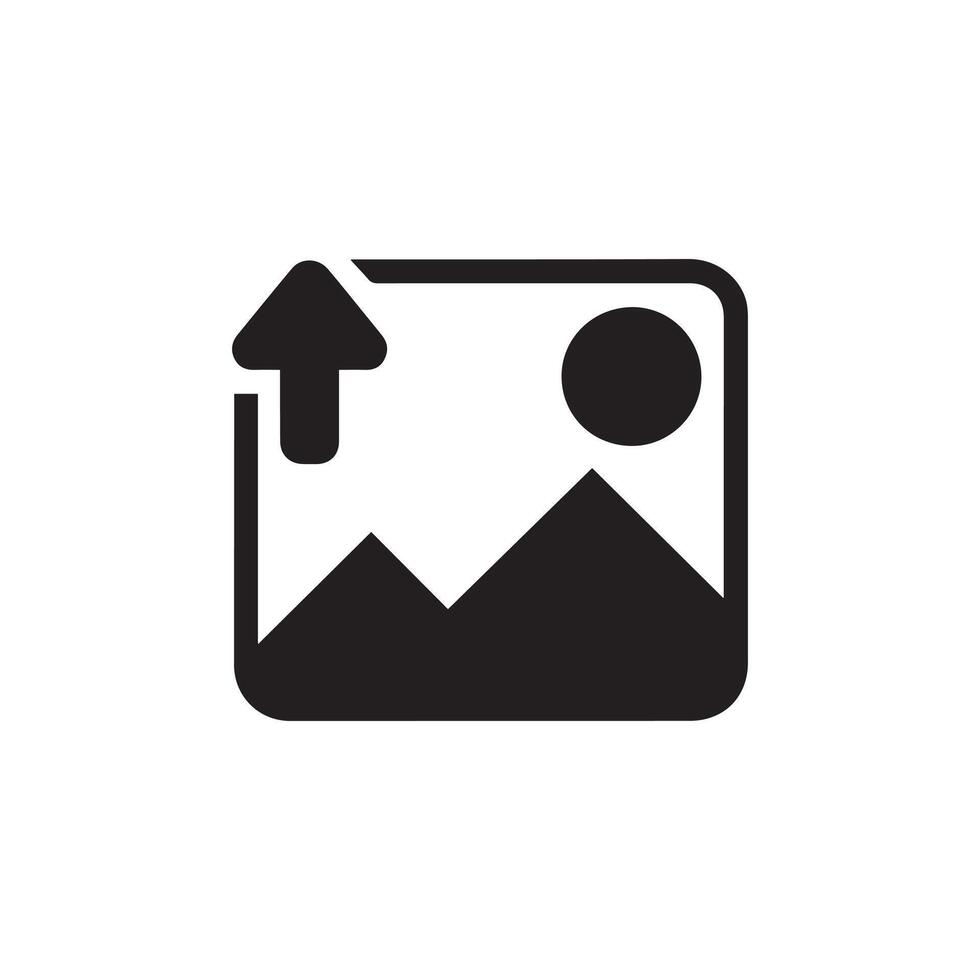
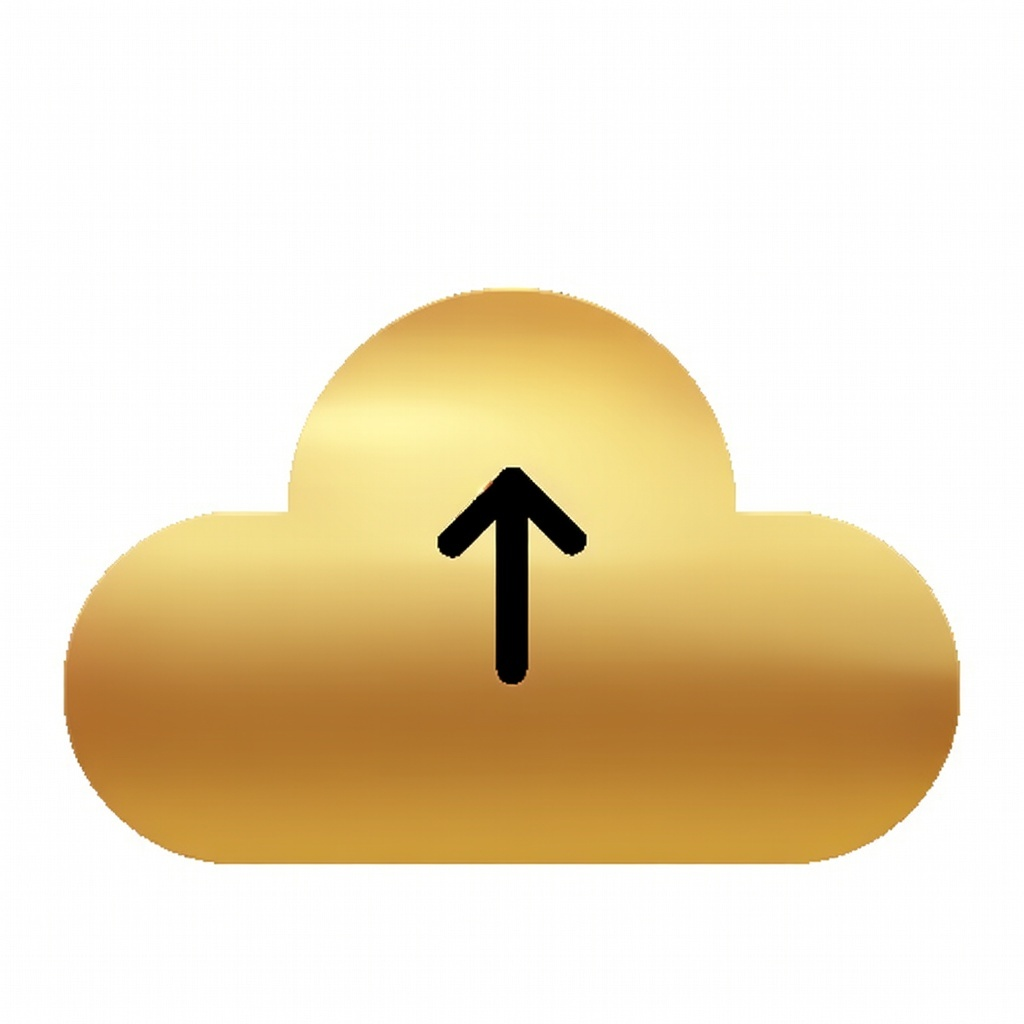
fix image-dropzone to match the design

diff --git a/admin/src/pages/ServicesList.jsx b/admin/src/pages/ServicesList.jsx
@@ -1,12 +1,12 @@
-import React, { useContext, useState } from 'react'
-import { AdminContext } from "../context/AdminContext.jsx";
-import { assets } from "../assets/assets.js"
+import React, {useContext, useState} from 'react'
+import {AdminContext} from "../context/AdminContext.jsx";
+import {assets} from "../assets/assets.js"
 import axios from "axios";
-import { toast } from "react-toastify";
+import {toast} from "react-toastify";
 
 const ServicesList = () => {
 
-  const { adminToken, backendUrl } = useContext(AdminContext)
+  const {adminToken, backendUrl} = useContext(AdminContext)
 
   const [serviceImg, setServiceImg] = useState(false)
   const [type, setType] = useState('')
@@ -33,7 +33,7 @@ const ServicesList = () => {
       formData.append('description', description)
       formData.append('filter', filter)
 
-      const { data } = await axios.post(backendUrl + '/api/service/add-service', formData, { headers: { adminToken } })
+      const {data} = await axios.post(backendUrl + '/api/service/add-service', formData, {headers: {adminToken}})
 
       if (data.success) {
         toast.success(data.message)
@@ -53,54 +53,60 @@ const ServicesList = () => {
   }
 
   return (
-    <form onSubmit={onSubmitHandler} className="m-5 w-full">
+      <form onSubmit={onSubmitHandler} className="m-5 w-full">
 
-      <p className="mb-3 text-lg font-medium">Add service</p>
+        <p className="mb-3 text-lg font-medium">Add service</p>
 
-      <div className="bg-white px-8 py-8 border rounded w-full max-w-4xl max-h-[80vh] overflow-y-scroll scrollbar-hide">
-        <div className="flex items-center gap-4 mb-8 text-gray-500">
-          <label htmlFor="service-image">
-            <img className="w-16 bg-transparent rounded-full cursor-pointer" src={serviceImg ? URL.createObjectURL(serviceImg) : "/images/image-dropzone.png"} alt="upload-area" />
-          </label>
-          <input onChange={(e) => setServiceImg(e.target.files[0])} type="file" id="service-image" hidden />
-          <p>Upload service image</p>
+        <div
+            className="bg-white px-8 py-8 border rounded w-full max-w-4xl max-h-[80vh] overflow-y-scroll scrollbar-hide">
+          <div className="flex items-center gap-4 mb-8 text-gray-500">
+            <label htmlFor="service-image">
+              <img className="w-16 bg-transparent rounded-full cursor-pointer"
+                   src={serviceImg ? URL.createObjectURL(serviceImg) : "/images/image-dropzone.jpg"} alt="upload-area"/>
+            </label>
+            <input onChange={(e) => setServiceImg(e.target.files[0])} type="file" id="service-image" hidden/>
+            <p>Upload service image</p>
+          </div>
+
+          <div className="flex flex-col gap-4 text-gray-600">
+            <div className="flex flex-col gap-1">
+              <p>Service Name</p>
+              <input onChange={(e) => setType(e.target.value)} value={type} className="border rounded px-3 py-2"
+                     type="text" placeholder="Service Name" required/>
+            </div>
+
+            <div className="flex flex-col gap-1">
+              <p>Service Price</p>
+              <input onChange={(e) => setFee(e.target.value)} value={fee} className="border rounded px-3 py-2"
+                     type="number" placeholder="20" required/>
+            </div>
+
+            <div className="flex flex-col gap-1">
+              <p>Short Description</p>
+              <input onChange={(e) => setShortDescription(e.target.value)} value={shortDescription}
+                     className="border rounded px-3 py-2" type="text" placeholder="Short summary" required/>
+            </div>
+
+            <div className="flex flex-col gap-1">
+              <p>Description</p>
+              <textarea onChange={(e) => setDescription(e.target.value)} value={description}
+                        className="border rounded px-3 py-2" placeholder="Full service description" rows={4} required/>
+            </div>
+
+            <div className="flex flex-col gap-1">
+              <p>Filter Category</p>
+              <select onChange={(e) => setFilter(e.target.value)} value={filter} className="border rounded px-3 py-2">
+                <option value="дамско">Дамско</option>
+                <option value="мъжко">Мъжко</option>
+                <option value="детско">Детско</option>
+              </select>
+            </div>
+
+            <button type="submit" className="bg-primary px-10 py-3 mt-4 text-white rounded-full">Add Service</button>
+          </div>
+
         </div>
-
-        <div className="flex flex-col gap-4 text-gray-600">
-          <div className="flex flex-col gap-1">
-            <p>Service Name</p>
-            <input onChange={(e) => setType(e.target.value)} value={type} className="border rounded px-3 py-2" type="text" placeholder="Service Name" required />
-          </div>
-
-          <div className="flex flex-col gap-1">
-            <p>Service Price</p>
-            <input onChange={(e) => setFee(e.target.value)} value={fee} className="border rounded px-3 py-2" type="number" placeholder="20" required />
-          </div>
-
-          <div className="flex flex-col gap-1">
-            <p>Short Description</p>
-            <input onChange={(e) => setShortDescription(e.target.value)} value={shortDescription} className="border rounded px-3 py-2" type="text" placeholder="Short summary" required />
-          </div>
-
-          <div className="flex flex-col gap-1">
-            <p>Description</p>
-            <textarea onChange={(e) => setDescription(e.target.value)} value={description} className="border rounded px-3 py-2" placeholder="Full service description" rows={4} required />
-          </div>
-
-          <div className="flex flex-col gap-1">
-            <p>Filter Category</p>
-            <select onChange={(e) => setFilter(e.target.value)} value={filter} className="border rounded px-3 py-2">
-              <option value="дамско">Дамско</option>
-              <option value="мъжко">Мъжко</option>
-              <option value="детско">Детско</option>
-            </select>
-          </div>
-
-          <button type="submit" className="bg-primary px-10 py-3 mt-4 text-white rounded-full">Add Service</button>
-        </div>
-
-      </div>
-    </form>
+      </form>
   )
 }
 
